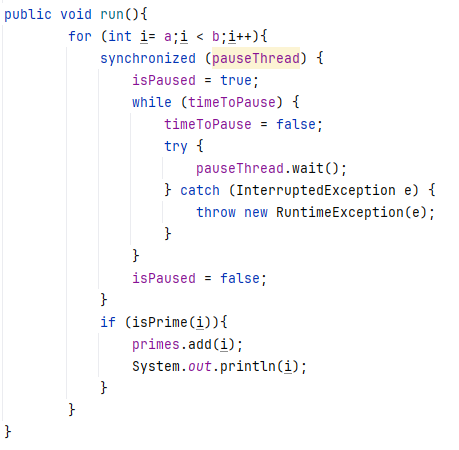
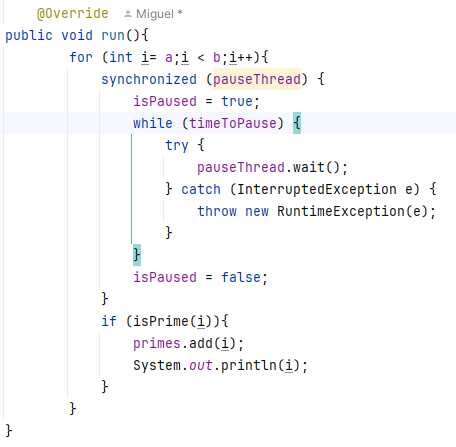
finish funtion

diff --git a/src/main/java/edu/eci/arsw/primefinder/PrimeFinderThread.java b/src/main/java/edu/eci/arsw/primefinder/PrimeFinderThread.java
@@ -33,7 +33,6 @@ public class PrimeFinderThread extends Thread{
                 synchronized (pauseThread) {
                     isPaused = true;
                     while (timeToPause) {
-                        timeToPause = false;
                         try {
                             pauseThread.wait();
                         } catch (InterruptedException e) {

diff --git a/README.md b/README.md
@@ -12,40 +12,65 @@ El desarrollo fue el siguiente:
 
 ## Estrategia:
 
-Primero se implementó un nuevo hilo PauseThread, encargado de llevar un
+* Primero se implementó un nuevo hilo PauseThread, encargado de llevar un
 temporizador para pausar al resto de hilos cuando fuera necesario.
 
 ![PauseThread](imgs/img.png)
 
-El hilo Control se encargó de inyectar la instancia de PauseThread a todos
+* El hilo Control se encargó de inyectar la instancia de PauseThread a todos
 los PrimeFinderThread y de iniciar sus ejecuciones. Una vez iniciados, cada
 hilo realizaba su trabajo hasta que transcurrieran los milisegundos
 especificados en Control.
 
 ![Control](imgs/img2.png)
 
-En ese momento, PauseThread modificaba un atributo volatile que contenía cada
+* En ese momento, PauseThread modificaba un atributo volatile que contenía cada
 PrimeFinderThread para notificarle que era momento de pausar. Cada hilo
 verificaba periódicamente esta variable y, al detectar la señal, pausaba su
 ejecución con wait() sobre la instancia de PauseThread (usada como monitor).
 
 ![PrimeFinderThread](imgs/img_1.png)
 
-Una vez todos los hilos estaban pausados, PauseThread imprimía el número de
+* Una vez todos los hilos estaban pausados, PauseThread imprimía el número de
 primos que cada uno había encontrado, cambiaba la variable de control, y
 ejecutaba notifyAll() sobre sí mismo para despertar a todos los hilos y que
 reanudaran su ejecución.
 
 ![PauseThreadRun](imgs/img_2.png)!
 
-Como ajuste adicional, se implementó un mecanismo para garantizar que la
-impresión solo ocurriera cuando todos los hilos estuvieran completamente
-pausados. Cada PrimeFinderThread tiene una variable volatile que indica si
-está pausado, y PauseThread verifica todas estas variables antes de imprimir
-los resultados.
 
-![isPaused](imgs/img_3.png) ![.yield](imgs/img_4.png)
+* Como ajuste adicional, se implementó un mecanismo para garantizar que la
+  impresión solo ocurriera cuando todos los hilos estuvieran completamente
+  pausados. Cada PrimeFinderThread tiene una variable volatile que indica si
+  está pausado, y PauseThread verifica todas estas variables antes de imprimir
+  los resultados.
 
+![isPaused](imgs/img_3.png)![.yield](imgs/img_4.png)
+
+## Comentario
+
+### Lock 
+* Se usó el objeto PauseThread como monitor compartido para la sincronización. 
+
+![lockUno](imgs/img_5.png)![lockDos](imgs/img_6.png)
+
+* En el primer caso se usó la variable que comparten los objetos PrimeFinderThread,
+  mientras que en el segundo se usó this debido a que se hace directamente dentro del objeto
+  PauseThread que comparten los hilos.
+
+### Evitar lost wakeup y spurious wakeup
+
+* Se evita el lost wakeup mediante una barrera de confirmación con la variable
+  isPaused. Cada hilo marca isPaused = true ANTES de ejecutar wait(), y
+  PauseThread verifica que TODOS los hilos tengan isPaused = true antes de
+  ejecutar notifyAll(). Solo después de esta verificación, cambia timeToPause
+  a false y notifica. Esto garantiza que ningún hilo llegue tarde al wait() y
+  pierda la notificación.
+
+* El spurious wakeup se protege usando el while en lugar de un if en la condición, 
+  ya que el if puede causar que el hilo se despierte previo al notifyAll.
+
+![isPaused](imgs/img_3.png)![.yield](imgs/img_4.png)
 
 
 
